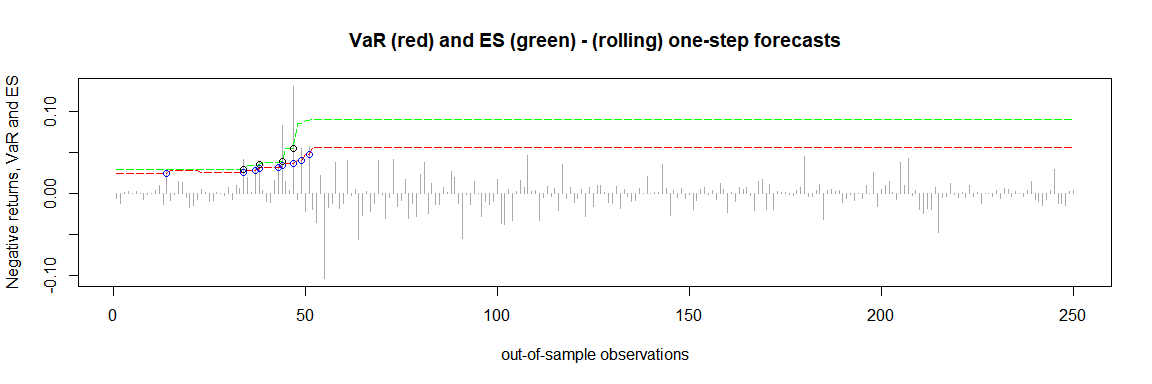
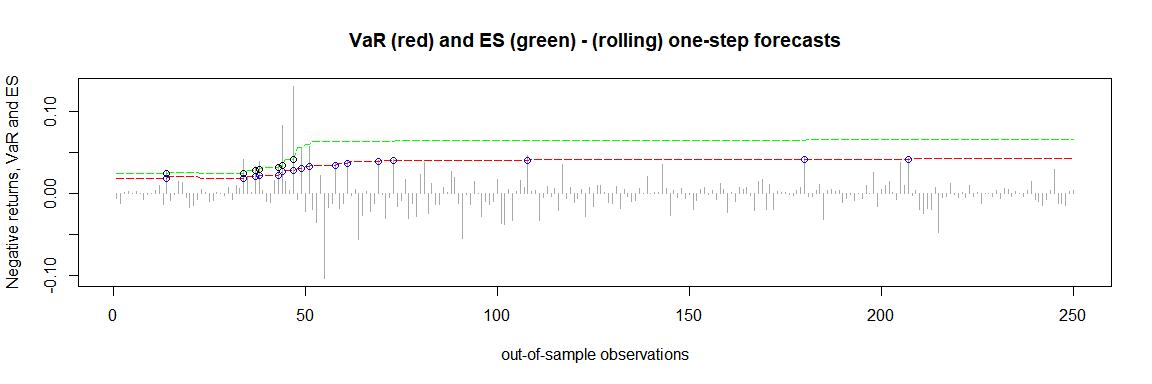
version 1.0.6 fhs.R implementiert (nicht fertig)

Changed region(s): [[0.0938, 0.375, 0.3438, 0.4688], [0.4375, 0.4062, 0.4688, 0.4375]]

diff --git a/README.md b/README.md
@@ -28,7 +28,7 @@ install.packages("quarks")
 This is a basic example which shows you how to solve a common problem.
 The data `DAX30` in this package contains daily financial data of the
 DAX from 2000 to December 2020 (currency in EUR). In the following
-examples the (out-of-sample) one-step forecasts of the 99%-VaR (red
+examples the (out-of-sample) one-step forecasts of the 97.5%-VaR (red
 line) and the corresponding ES (green line) are computed. Exceedances
 are indicated by the colored circles.
 
@@ -42,7 +42,7 @@ prices <- DAX30$price.close
 returns <- diff(log(prices))
 
 ### Example 1 - plain historical simulation 
-results1 <- rollcast(x = returns, p = 0.99, method = 'plain', nout = 250,
+results1 <- rollcast(x = returns, p = 0.975, method = 'plain', nout = 250,
                      nwin = 250)
 plot(results1)
 ```
@@ -51,7 +51,7 @@ plot(results1)
 
 ``` r
 ### Example 2 - age weighted historical simulation 
-results2 <- rollcast(x = returns, p = 0.99, method = 'age', nout = 250,
+results2 <- rollcast(x = returns, p = 0.975, method = 'age', nout = 250,
                      nwin = 250)
 plot(results2)
 ```
@@ -60,7 +60,7 @@ plot(results2)
 
 ``` r
 ### Example 3 - volatility weighted historical simulation 
-results3 <- rollcast(x = returns, p = 0.99, method = 'vwhs', nout = 250,
+results3 <- rollcast(x = returns, p = 0.975, method = 'vwhs', nout = 250,
                      nwin = 250)
 plot(results3)
 ```

diff --git a/NEWS.md b/NEWS.md
@@ -1,25 +1,32 @@
-# quakrs 1.0.5
+# quarks 1.0.6
 
-- slightly changed example for rollcast.R
-- fixed 
+- changed default coverage level from 0.95 to 0.975
+- implemented 'fhs.R', enabling filtered historical simulation
+
+
+# quarks 1.0.5
+
+- slightly changed example for 'rollcast.R'
+- fixed a bug which caused a warning if argument 'method'
+  in 'rollcast.R' was set on default
 
 # quarks 1.0.4
 
-- slightly adapted hs.R, vwhs.R and rollcast.R 
+- slightly adapted 'hs.R', 'vwhs.R' and 'rollcast.R' 
 - modified ES-calculation for age-weighted historical simulation
 
 # quarks 1.0.3
 
 - slightly adjusted README
-- modified plot.quarks.R
+- modified 'plot.quarks.R'
 
 # quarks 1.0.2
-a
-- fixed a minor mistake in 'hs.R'.
-- minor adjustments in the README were made.
+
+- fixed a minor mistake in 'hs.R'
+- minor adjustments in the README were made
 
 # quarks 1.0.1
 
-- adjusted example in the README file.
-- minor adjustments in the documentation were made.
+- adjusted example in the README file
+- minor adjustments in the documentation were made
 

diff --git a/cran-comments.md b/cran-comments.md
@@ -15,18 +15,3 @@ Thank you very much for your efforts.
 
 0 errors | 0 warnings | 0 notes
 
-
-Other notifications:
-
-* checking CRAN incoming feasibility ... NOTE
-Maintainer: 'Sebastian Letmathe <sebastian.letmathe@uni-paderborn.de>'
-
-Days since last update: 1
-
-
-Possibly mis-spelled words in DESCRIPTION:
-  EWMA (17:30)
-  Gurrola (18:18)
-  VaR (12:59)
-
-The words (two abbreviations and a name) are spelled correctly.
